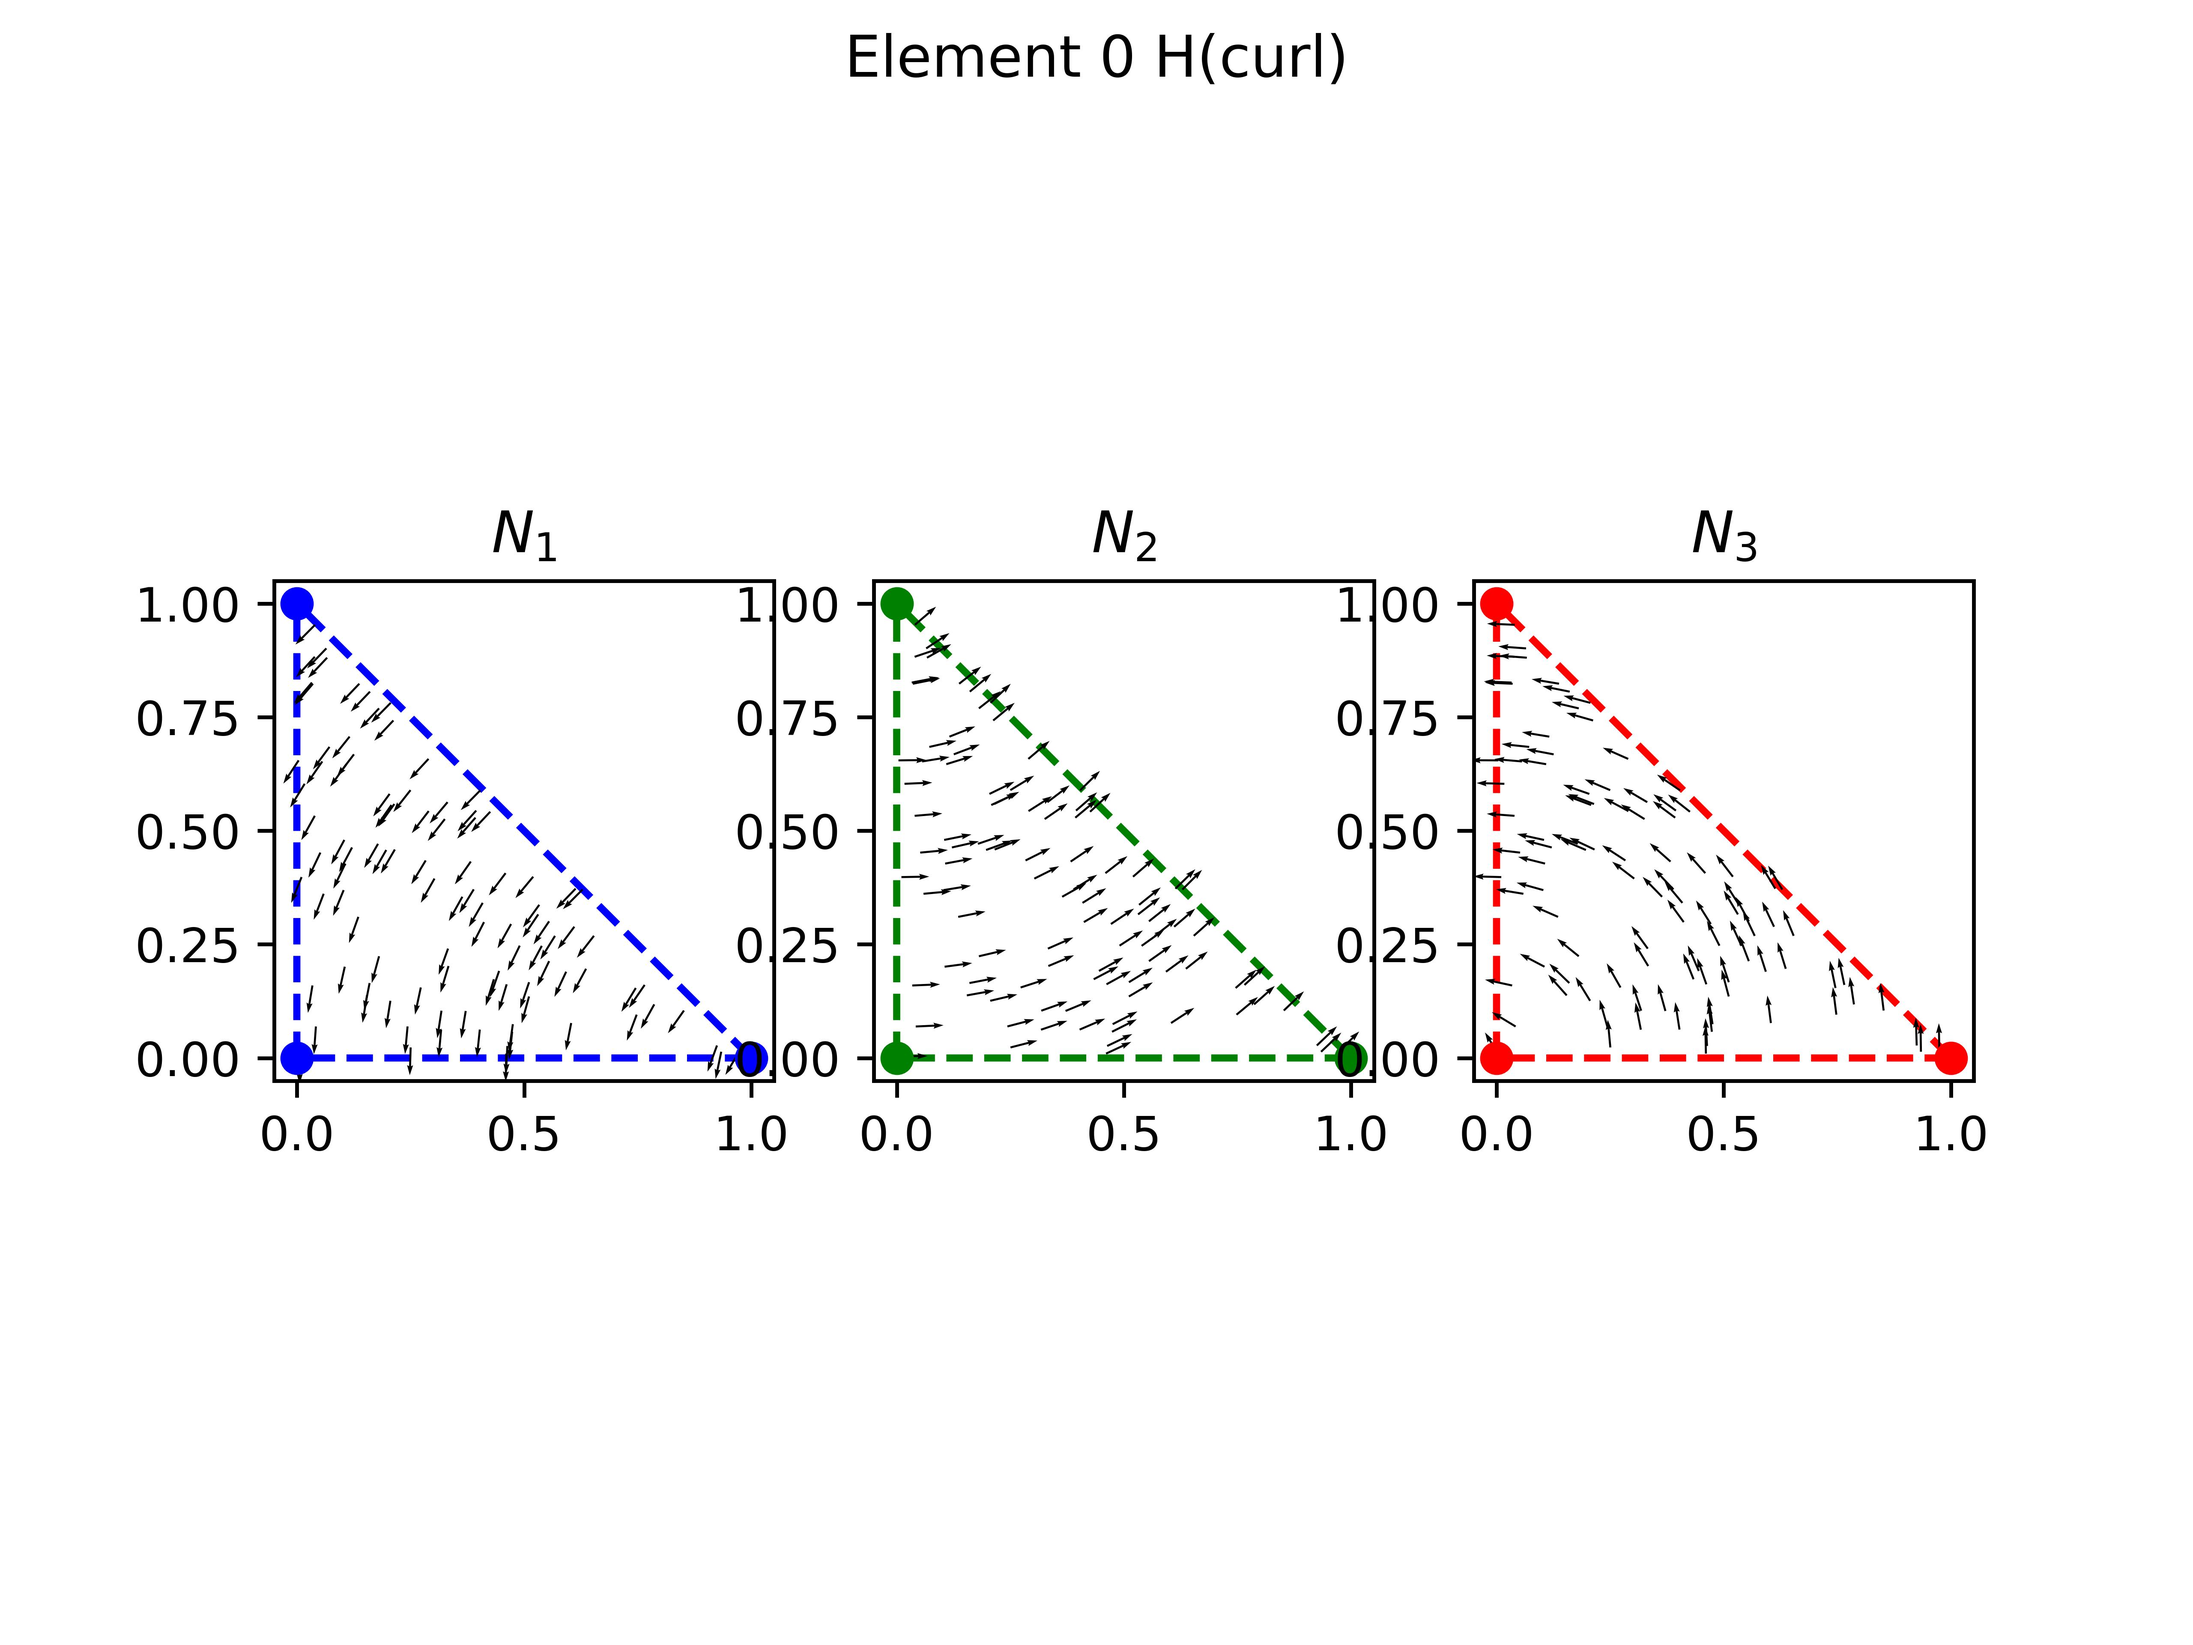
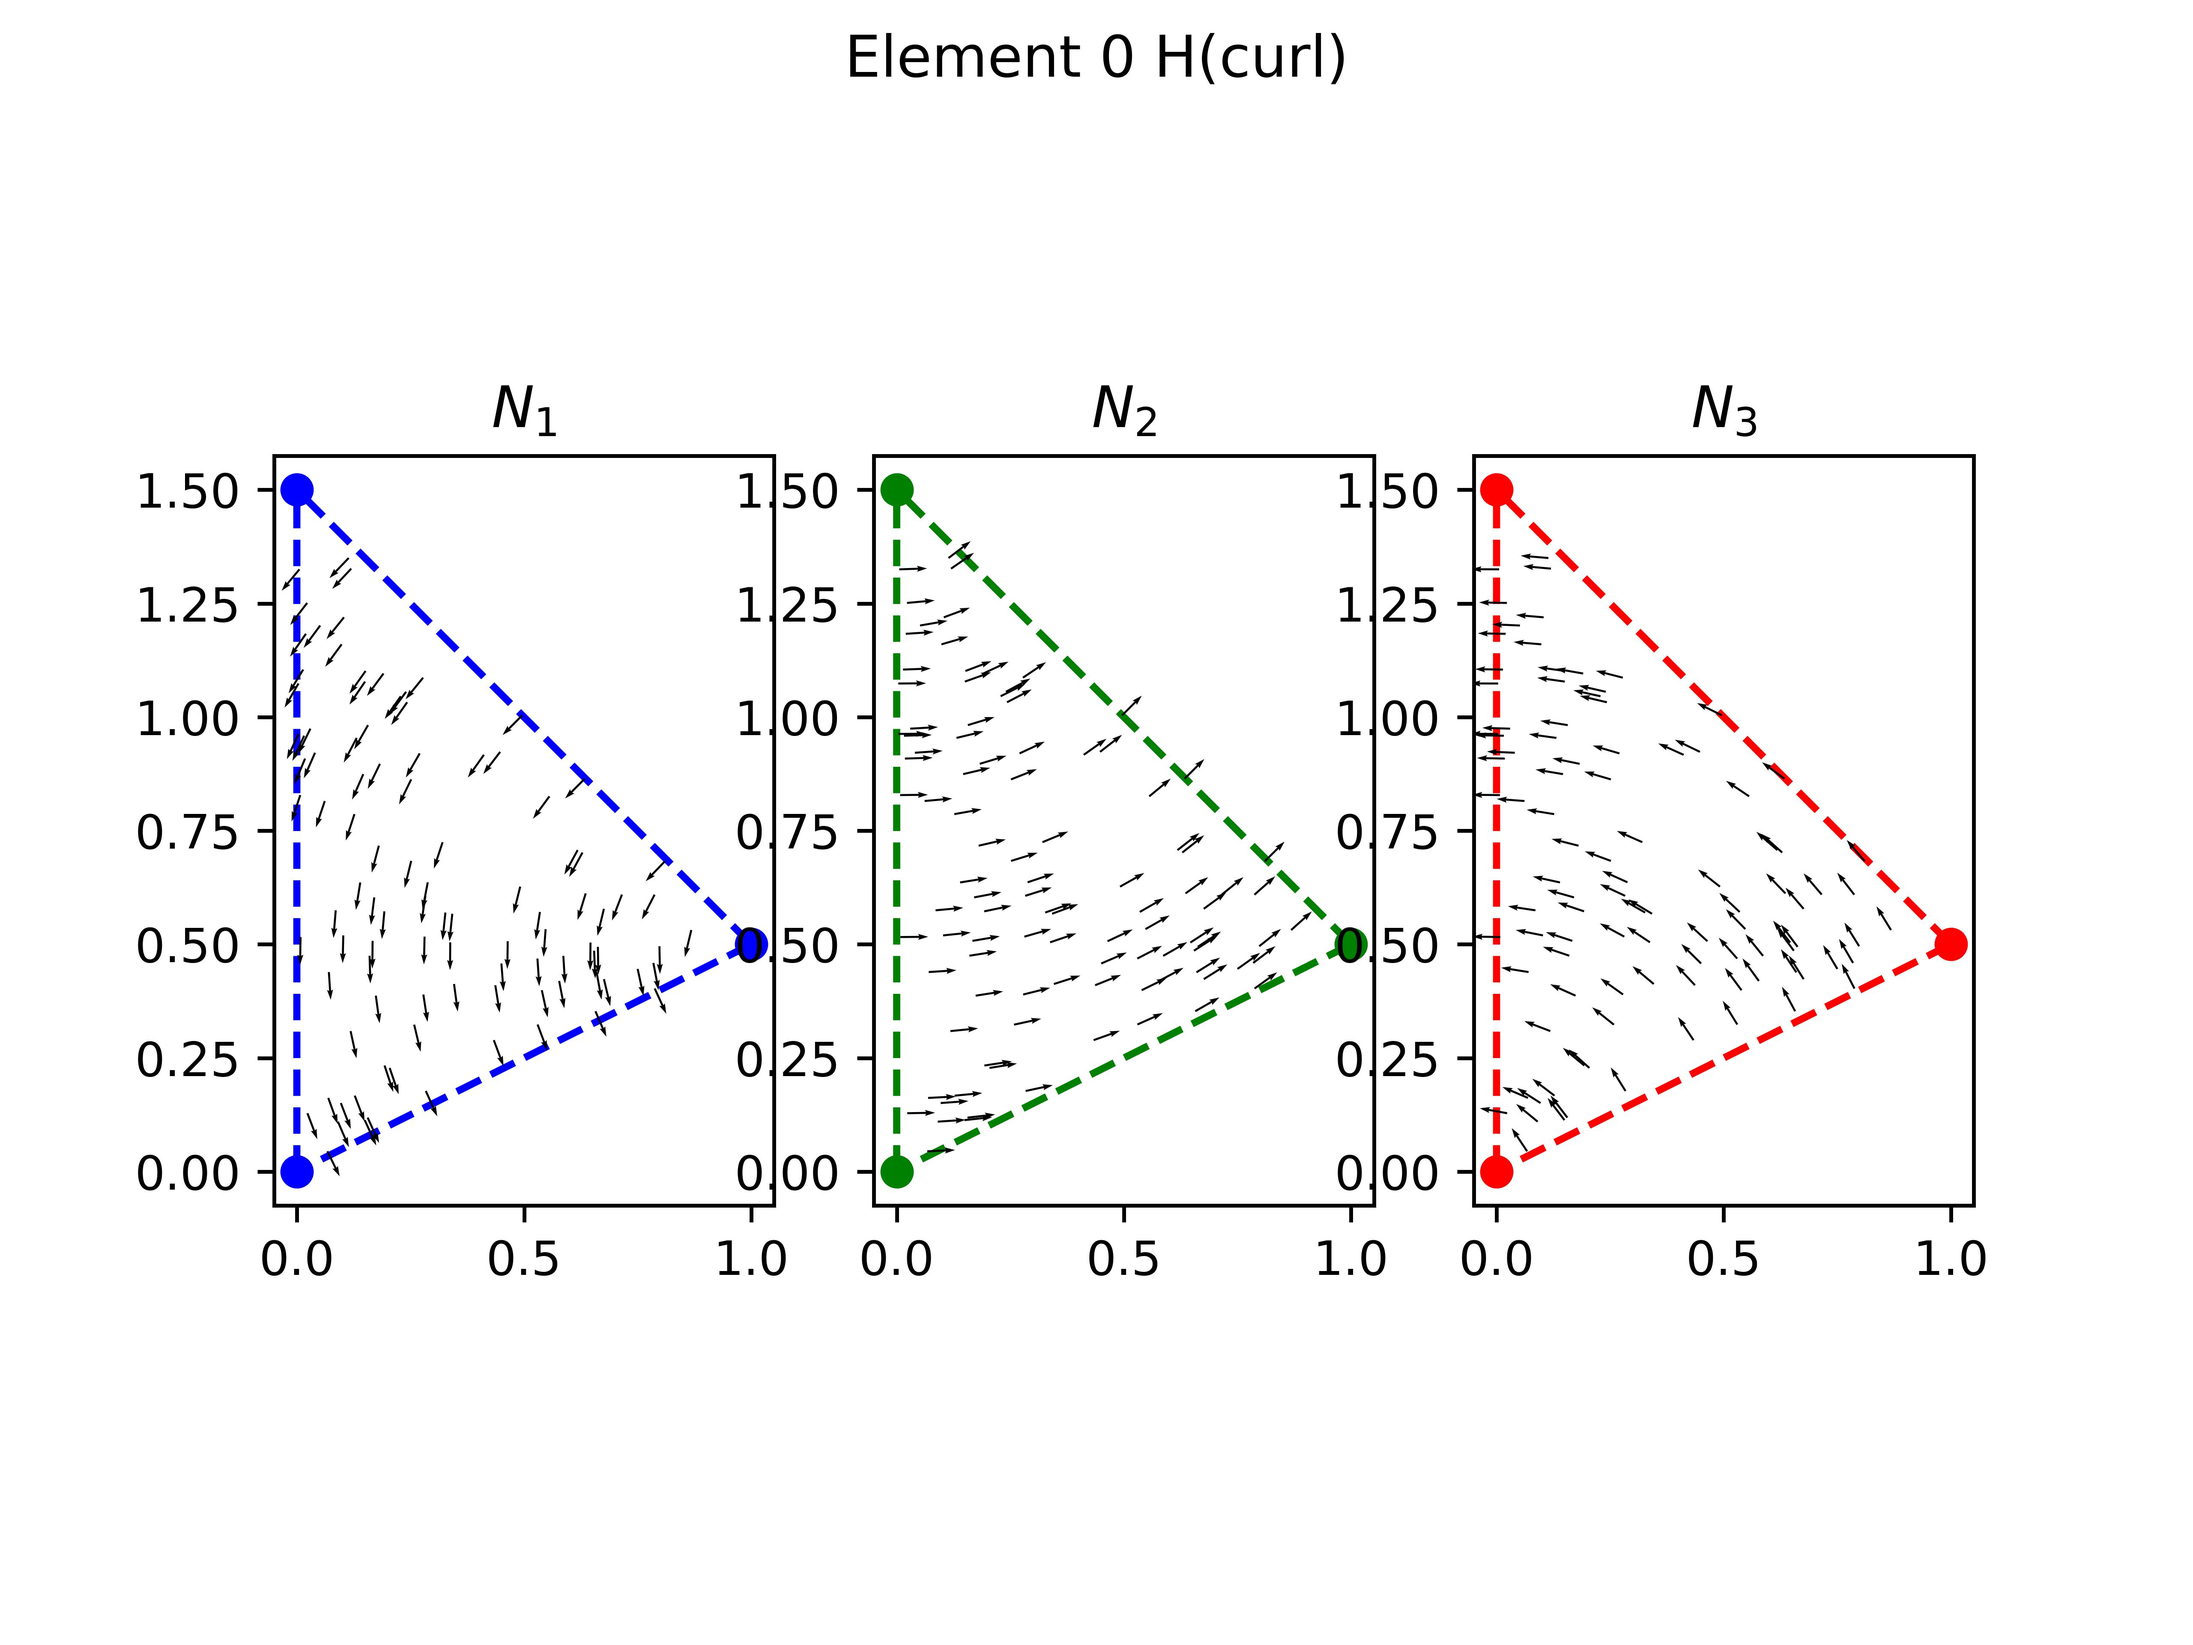
Working model with 5 elements.

diff --git a/interp.py b/interp.py
@@ -230,7 +230,6 @@ def plot_element_solution(
     soln,
     fix,
     ax,
-    signs=[1.0, 1.0, 1.0],
 ):
     # Get the node coordinates for the element.
     n1_coord, n2_coord, n3_coord = get_node_coords(
@@ -246,7 +245,7 @@ def plot_element_solution(
     ax.triplot(triang, color="grey", linestyle="-", linewidth=1.0)
 
     # Compute the vector field inside the element
-    npts = 150  # total number of points in the vector field
+    npts = 50  # total number of points in the vector field
     for i in range(npts):
         # Get the x, y point in the triangle to evaluate the shape function
         x, y = barycenter_sampling(n1_coord, n2_coord, n3_coord)
@@ -256,7 +255,7 @@ def plot_element_solution(
             n1_coord, n2_coord, n3_coord, x, y
         )
 
-        E = signs[0] * N1 * soln[0] + signs[1] * N2 * soln[1] + signs[2] * N3 * soln[2]
+        E = N1 * soln[0] + N2 * soln[1] + N3 * soln[2]
 
         # Update the plot
         ax.quiver(x, y, E[0], E[1], width=4e-3)
@@ -305,11 +304,13 @@ if __name__ == "__main__":
     X = np.array(
         [
             [0.0, 0.0],  # node 0
-            [1.0, 0.0],  # node 1
-            [0.0, 1.0],  # node 2
-            [1.0, 1.0],  # node 3
-            [2.0, 1.0],  # node 4
-            [2.0, 0.0],  # node 4
+            [1.0, 0.5],  # node 1
+            [0.0, 1.5],  # node 2
+            [1.0, 2.5],  # node 3
+            [2.0, 2.5],  # node 4
+            [2.0, 0.5],  # node 5
+            [3.0, 1.5],  # node 6
+            [3.0, 0.0],  # node 7
         ]
     )
 
@@ -319,6 +320,8 @@ if __name__ == "__main__":
         [3, 2, 1],  # e1
         [1, 4, 3],  # e2
         [1, 5, 4],  # e3
+        [5, 6, 4],  # e4
+        [5, 7, 6],  # e5
     ]
 
     edge_conn = [
@@ -334,13 +337,21 @@ if __name__ == "__main__":
         [1, 5],  # E9
         [5, 4],  # E10
         [4, 1],  # E11
+        [5, 6],  # E12
+        [6, 4],  # E13
+        [4, 5],  # E14
+        [6, 5],  # E15
+        [5, 7],  # E16
+        [7, 6],  # E17
     ]
 
     elem_edge_conn = [
-        [2, 0, 1],
-        [5, 3, 4],
-        [7, 8, 6],
-        [9, 10, 11],
+        [2, 0, 1],  # e0
+        [5, 3, 4],  # e1
+        [7, 8, 6],  # e2
+        [9, 10, 11],  # e3
+        [12, 13, 14],  # e4
+        [15, 16, 17],  # e5
     ]
 
     # Plot the mesh and the connectivity
@@ -370,21 +381,19 @@ if __name__ == "__main__":
     print("\nStiffness Matrix (No BCs)")
     print(K)
 
-    # Define G
-    G = np.array(
-        [
-            [0, 1, 0, 0, 0, 1, 0, 0, 0, 0, 0, 0],  # edge 1, 5
-            [0, 0, 0, 1, 0, 0, 1, 0, 0, 0, 0, 0],  # edge 3, 6
-            [0, 0, 0, 0, 0, 0, 0, 1, 0, 0, 0, 1],  # edge 7, 11
-        ]
-    )
+    # Define G (Constraint jacobian)
+    shared_edges = [[1, 5], [3, 6], [7, 11], [14, 10], [12, 15]]
+    num_shared_edges = len(shared_edges)
+    G = np.zeros((num_shared_edges, len(edge_conn)))
+    for i, pair in enumerate(shared_edges):
+        G[i, pair[0]] = 1.0
+        G[i, pair[1]] = 1.0
 
-    # New system
-    num_shared_edges = 3
+    # New FEA System with lagrange multipliers
     E = np.zeros((3 * nelems + num_shared_edges, 3 * nelems + num_shared_edges))
     E[0 : 3 * nelems, 0 : 3 * nelems] = K
-    E[0 : 3 * nelems, [-1, -2, -3]] = G.T
-    E[[-1, -2, -3], 0 : 3 * nelems] = G
+    E[0 : 3 * nelems, [-1, -2, -3, -4, -5]] = G.T
+    E[[-1, -2, -3, -4, -5], 0 : 3 * nelems] = G
     rhs = np.zeros(3 * nelems + num_shared_edges)
 
     print("\nMatrix E w/ Lagrange Multipliers")
@@ -394,10 +403,10 @@ if __name__ == "__main__":
     bcs = [
         [8, 1.0],
         [4, 1.0],
+        [13, 1.0],
         [0, -1.0],
         [9, -1.0],
-        # [10, 0.0],
-        # [2, 0.0],
+        [16, -1.0],
     ]
 
     for bc in bcs:
@@ -407,30 +416,6 @@ if __name__ == "__main__":
         E[t, :] = 0.0
         E[t, t] = 1.0
         rhs[t] = v
-    # bc = 0
-    # E[bc, :] = 0.0
-    # E[bc, bc] = 1.0
-    # rhs[bc] = 0.0
-
-    # E[0, :] = 0.0
-    # E[0, 0] = 1.0
-    # rhs[0] = 1.0
-
-    # E[2, :] = 0.0
-    # E[2, 2] = 1.0
-    # rhs[2] = 1.0
-
-    # E[4, :] = 0.0
-    # E[4, 4] = 1.0
-    # rhs[4] = 1.0
-
-    # E[7, :] = 0.0
-    # E[7, 7] = 1.0
-    # rhs[7] = 0.0
-
-    # E[8, :] = 0.0
-    # E[8, 8] = 1.0
-    # rhs[8] = 1.0
 
     print("\nMatrix E w/ BCs")
     print(E)
@@ -450,17 +435,13 @@ if __name__ == "__main__":
     soln2 = u[elem_edge_conn[1]]
     soln3 = u[elem_edge_conn[2]]
     soln4 = u[elem_edge_conn[3]]
-    plot_element_solution(
-        0, edge_conn, elem_edge_conn, X, soln1, fig1, ax1, signs=[1, 1, 1]
-    )
-    plot_element_solution(
-        1, edge_conn, elem_edge_conn, X, soln2, fig1, ax1, signs=[1, 1, 1]
-    )
-    plot_element_solution(
-        2, edge_conn, elem_edge_conn, X, soln3, fig1, ax1, signs=[1, 1, 1]
-    )
-    plot_element_solution(
-        3, edge_conn, elem_edge_conn, X, soln4, fig1, ax1, signs=[1, 1, 1]
-    )
+    soln5 = u[elem_edge_conn[4]]
+    soln6 = u[elem_edge_conn[5]]
+    plot_element_solution(0, edge_conn, elem_edge_conn, X, soln1, fig1, ax1)
+    plot_element_solution(1, edge_conn, elem_edge_conn, X, soln2, fig1, ax1)
+    plot_element_solution(2, edge_conn, elem_edge_conn, X, soln3, fig1, ax1)
+    plot_element_solution(3, edge_conn, elem_edge_conn, X, soln4, fig1, ax1)
+    plot_element_solution(4, edge_conn, elem_edge_conn, X, soln5, fig1, ax1)
+    plot_element_solution(5, edge_conn, elem_edge_conn, X, soln6, fig1, ax1)
     plt.savefig("fem.jpg", dpi=800)
     # plt.show()
